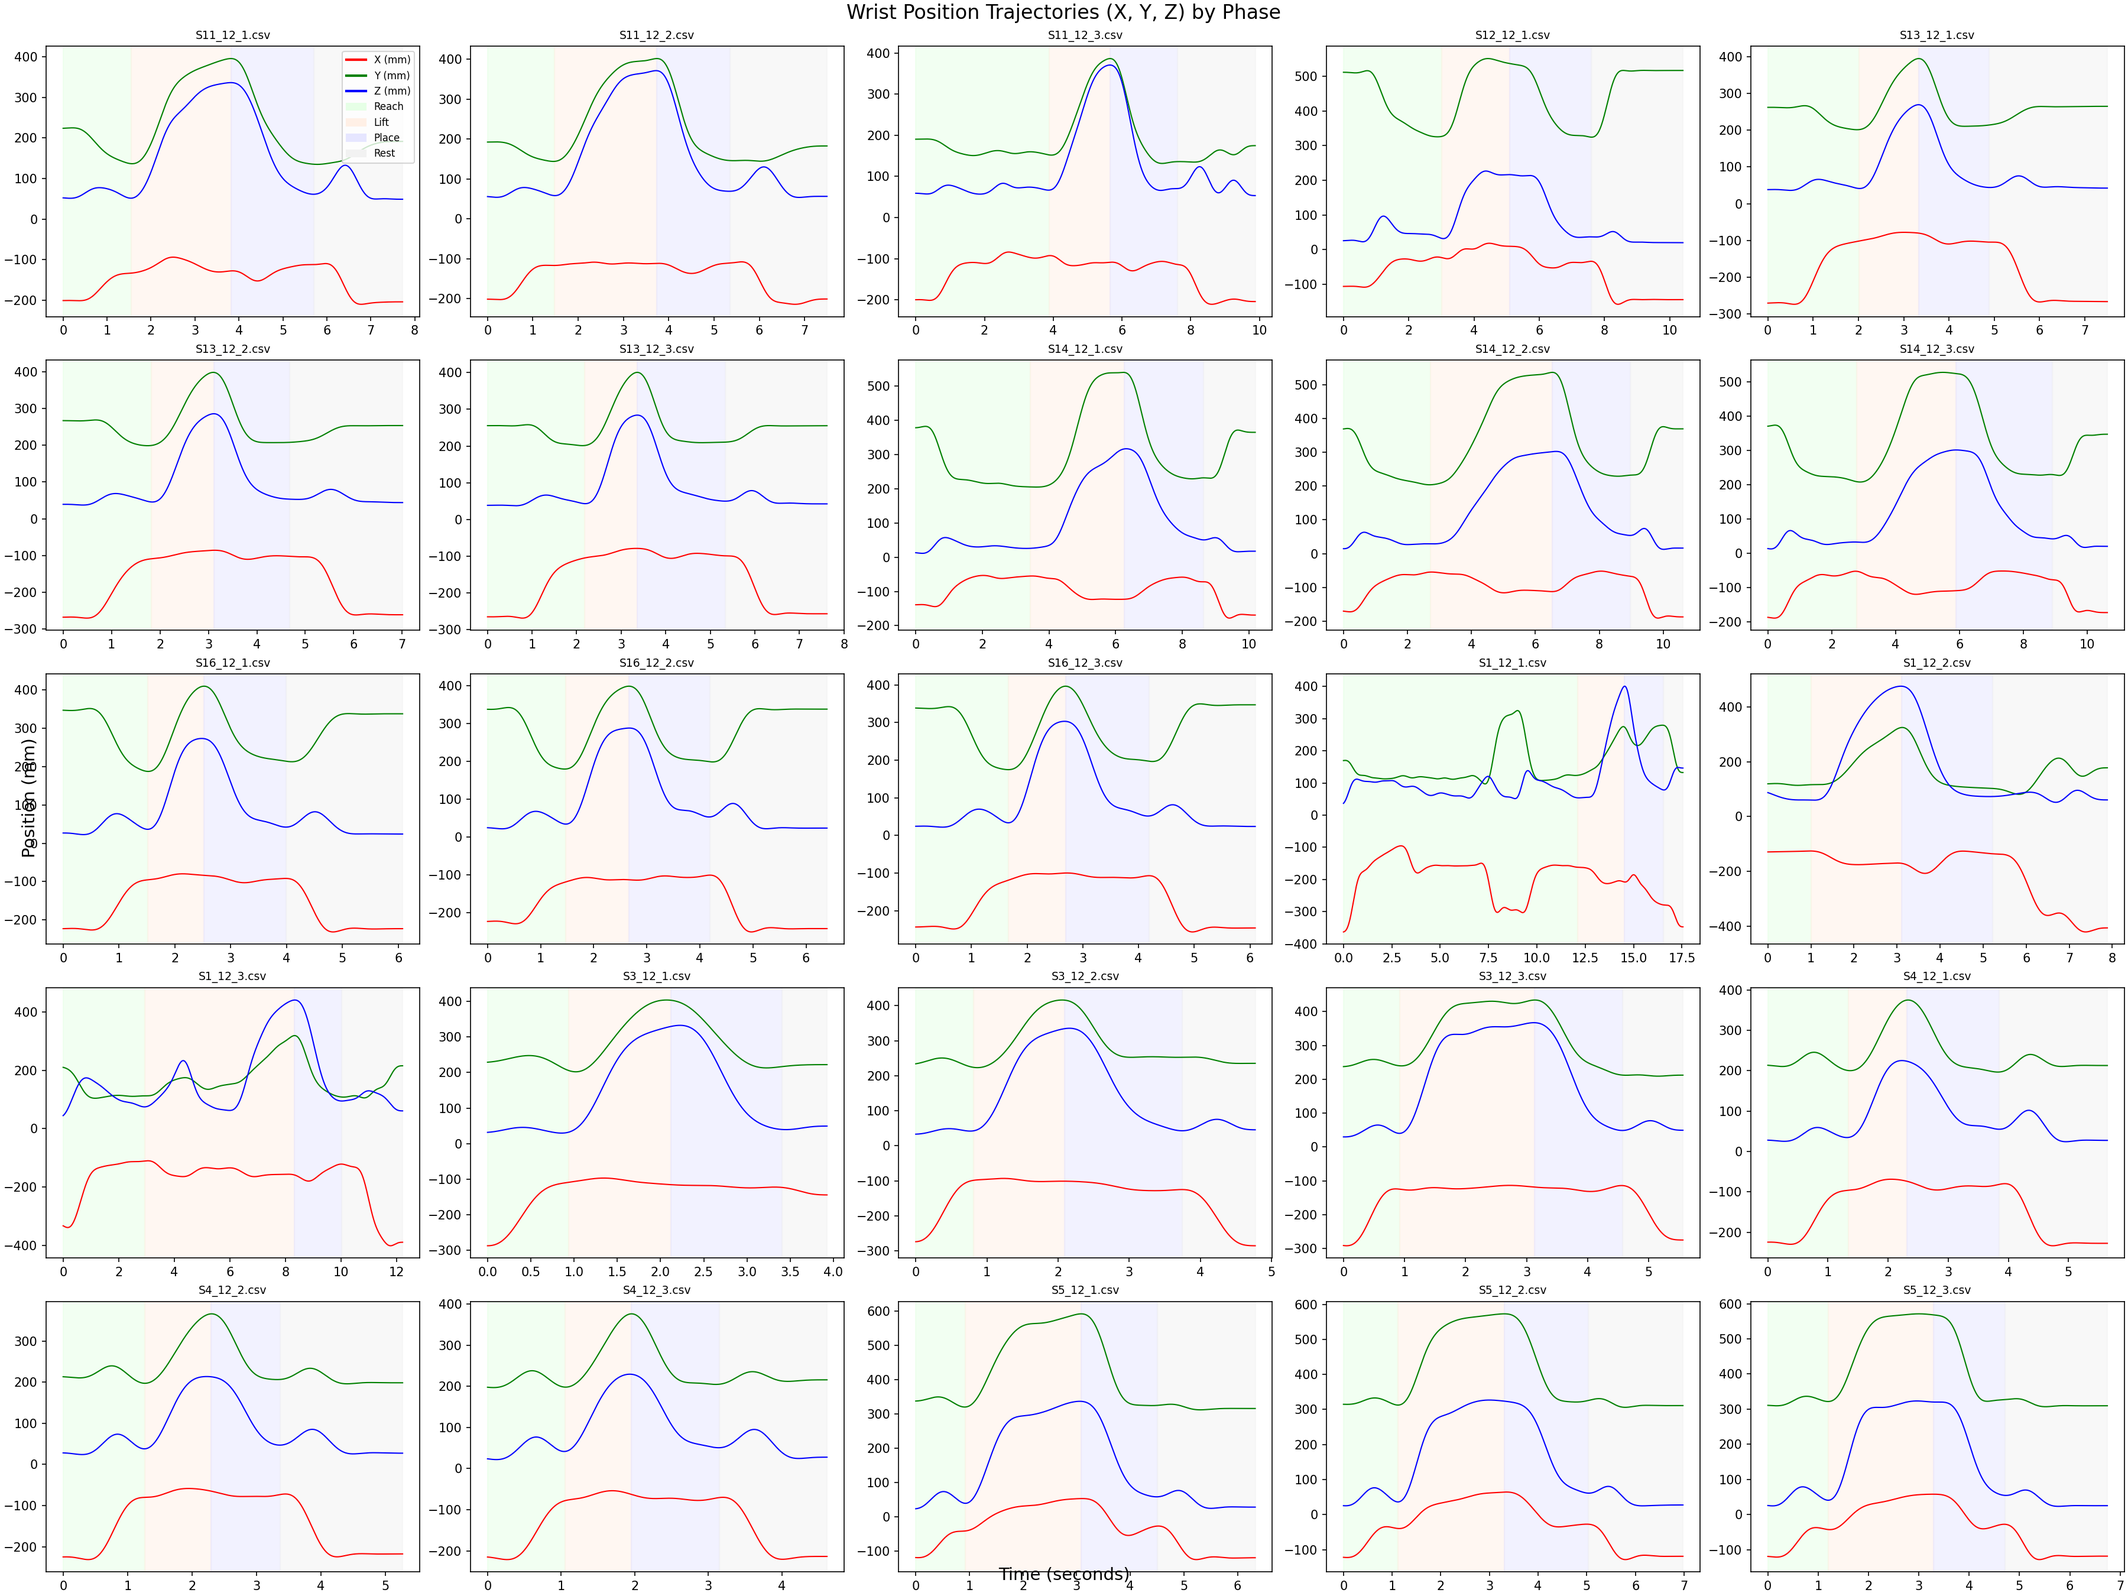
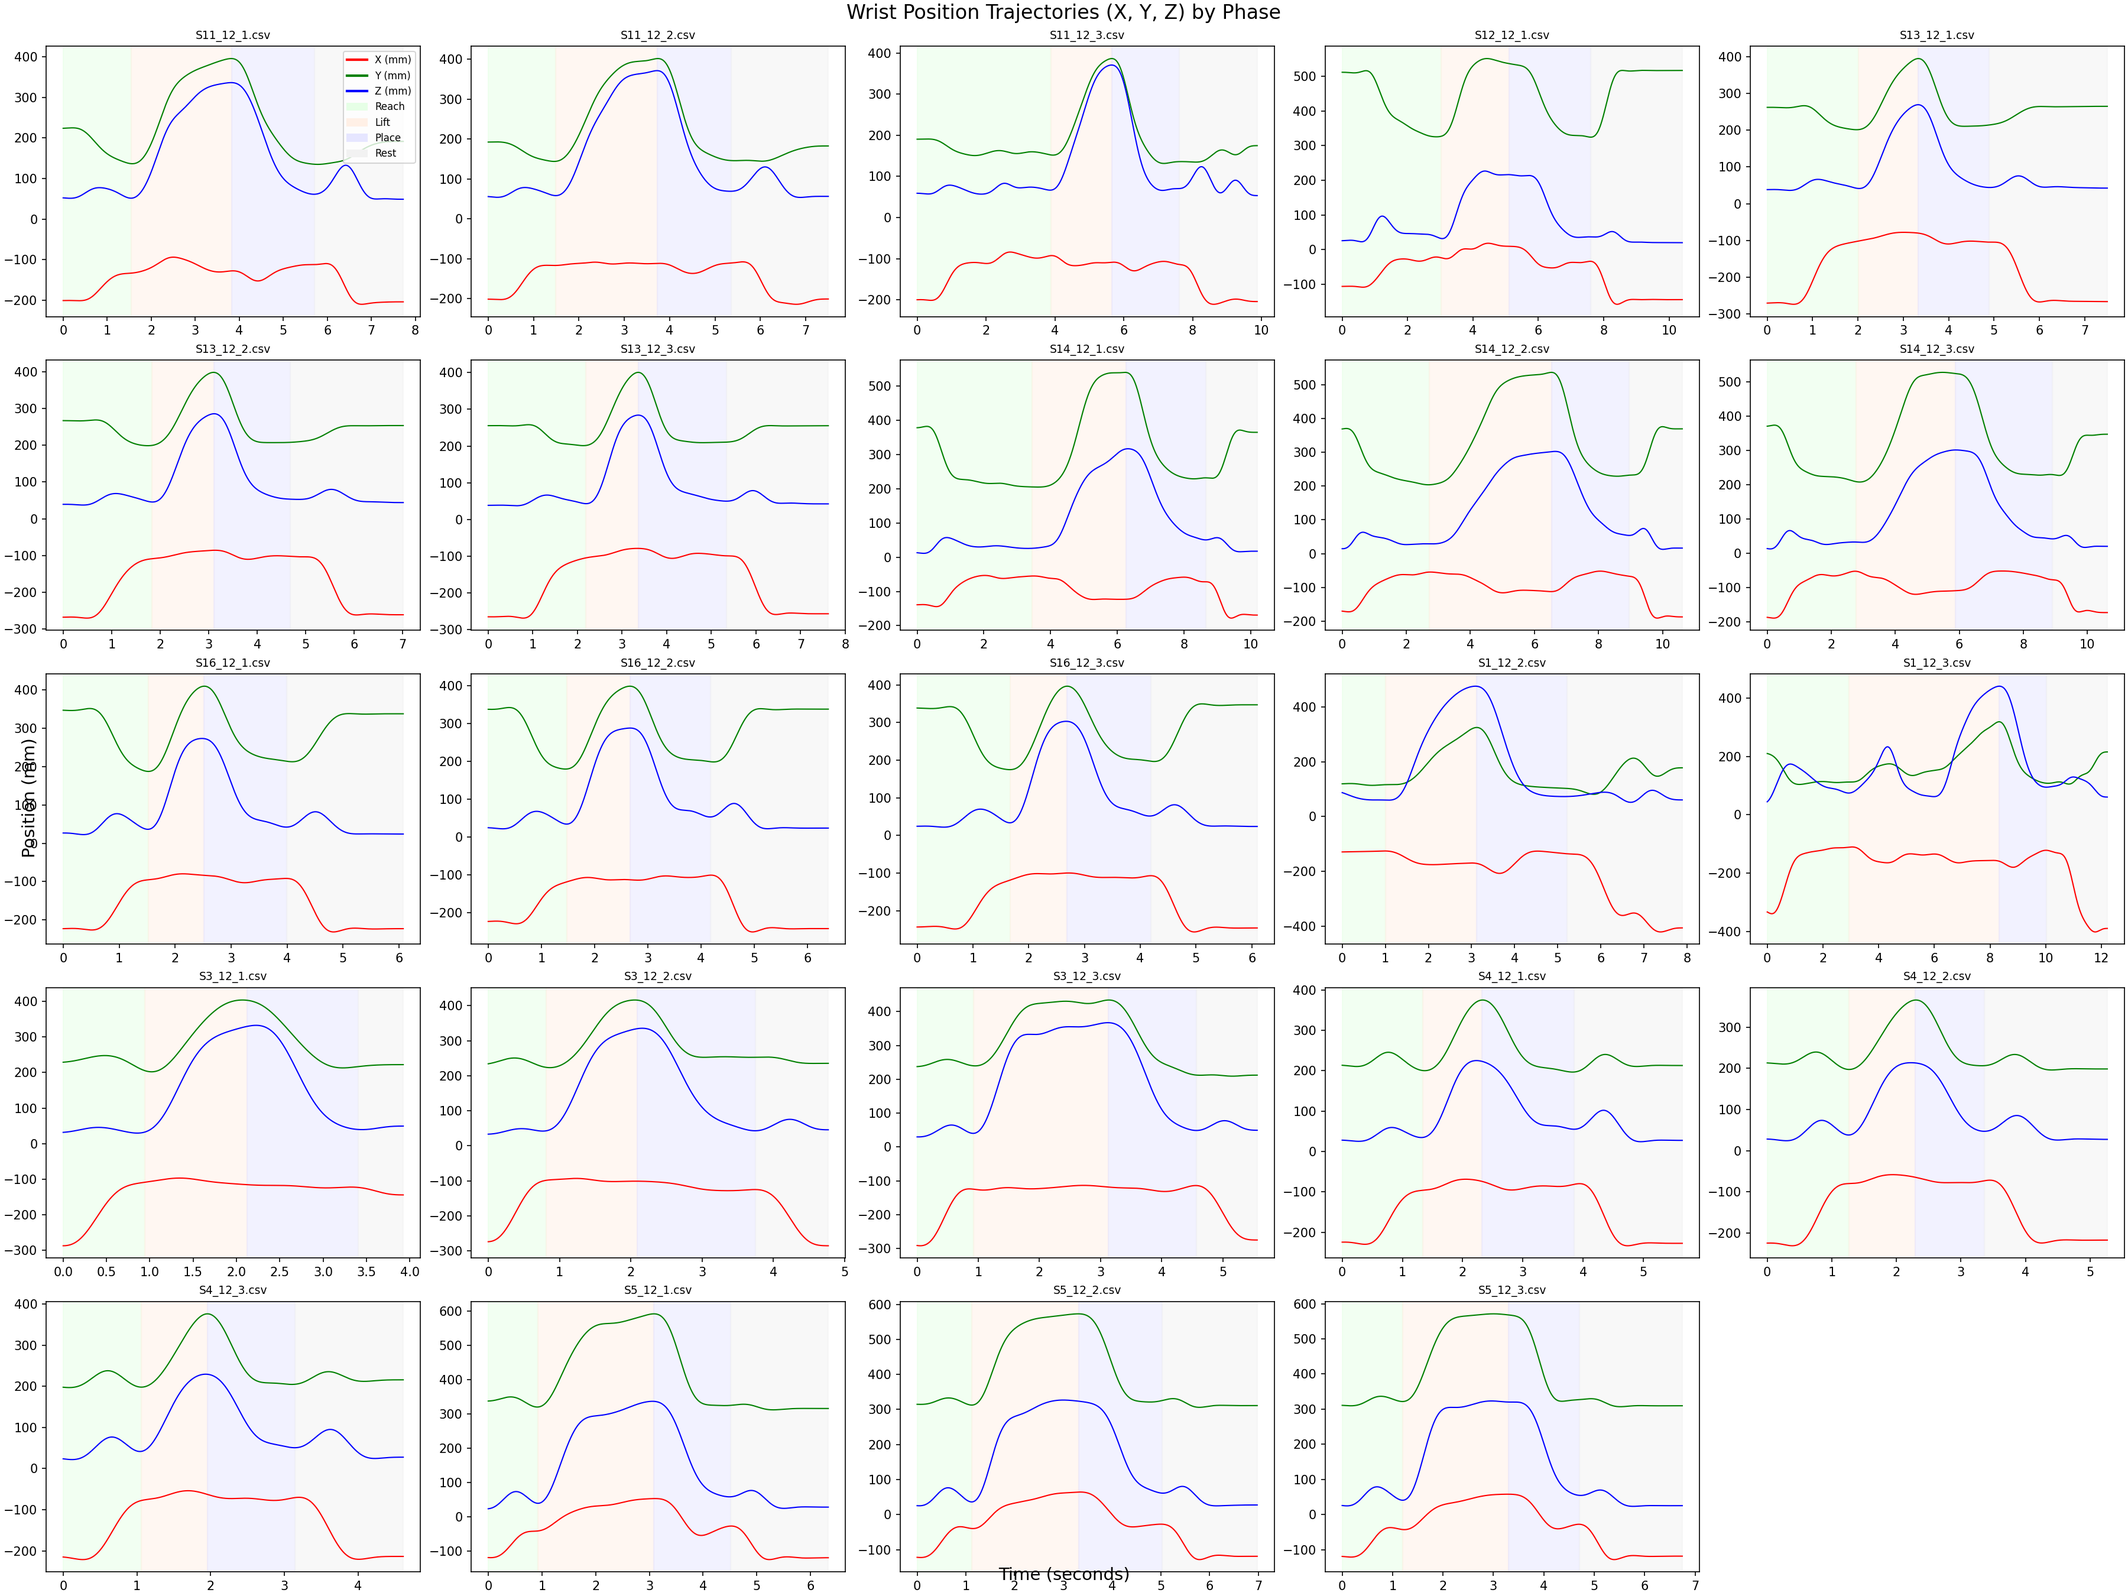
removed outlier (S1_12_1)

diff --git a/custom_workspace/IK/visual/advanced_kinematic_features.py b/custom_workspace/IK/visual/advanced_kinematic_features.py
@@ -1,0 +1,340 @@
+import pandas as pd
+import numpy as np
+import matplotlib.pyplot as plt
+import os
+import glob
+import json
+import math
+from scipy.signal import butter, filtfilt
+
+# --- 1. Data Loading & Processing (Reused logic) ---
+
+def load_and_process_data(filepath):
+    try:
+        header_df = pd.read_csv(filepath, header=None, nrows=2, sep=',')
+        marker_names = header_df.iloc[0].str.strip().ffill()
+        axis_names = header_df.iloc[1].str.strip()
+        multi_index = pd.MultiIndex.from_arrays([marker_names, axis_names])
+        data = pd.read_csv(filepath, header=None, skiprows=2, names=multi_index, sep=',')
+        data = data.apply(pd.to_numeric, errors='coerce')
+        data = data.interpolate(method='linear', limit_direction='both').fillna(0)
+        return data
+    except Exception as e:
+        print(f"Error reading {filepath}: {e}")
+        return None
+
+def calculate_virtual_joints(df):
+    processed_df = df.copy()
+    try:
+        # Wrist (Midpoint)
+        processed_df[('V_Wrist', 'X')] = (processed_df['WRA']['X'] + processed_df['WRB']['X']) / 2
+        processed_df[('V_Wrist', 'Y')] = (processed_df['WRA']['Y'] + processed_df['WRB']['Y']) / 2
+        processed_df[('V_Wrist', 'Z')] = (processed_df['WRA']['Z'] + processed_df['WRB']['Z']) / 2
+        # Elbow (Midpoint)
+        processed_df[('V_Elbow', 'X')] = (processed_df['ELB_L']['X'] + processed_df['ELB_M']['X']) / 2
+        processed_df[('V_Elbow', 'Y')] = (processed_df['ELB_L']['Y'] + processed_df['ELB_M']['Y']) / 2
+        processed_df[('V_Elbow', 'Z')] = (processed_df['ELB_L']['Z'] + processed_df['ELB_M']['Z']) / 2
+        # Shoulder (Centroid)
+        processed_df[('V_Shoulder', 'X')] = (processed_df['SA_1']['X'] + processed_df['SA_2']['X'] + processed_df['SA_3']['X']) / 3
+        processed_df[('V_Shoulder', 'Y')] = (processed_df['SA_1']['Y'] + processed_df['SA_2']['Y'] + processed_df['SA_3']['Y']) / 3
+        processed_df[('V_Shoulder', 'Z')] = (processed_df['SA_1']['Z'] + processed_df['SA_2']['Z'] + processed_df['SA_3']['Z']) / 3
+        return processed_df
+    except KeyError:
+        return None
+
+# --- 2. Advanced Kinematic Calculations ---
+
+def calculate_angles(joints_df):
+    """
+    Calculates Elbow Flexion and Shoulder Elevation angles.
+    """
+    s = joints_df['V_Shoulder'].values
+    e = joints_df['V_Elbow'].values
+    w = joints_df['V_Wrist'].values
+    
+    # Vectors
+    # Upper Arm: Shoulder -> Elbow
+    v_upper = e - s
+    # Forearm: Elbow -> Wrist
+    v_fore = w - e
+    # Vertical Vector (assuming Z is Up based on standard Mocap, or we use Y? 
+    # play_kinematics uses Z as vertical in plotting)
+    v_vert = np.array([0, 0, 1])
+    
+    angles = {}
+    
+    # 1. Elbow Flexion (Angle between Upper Arm and Forearm)
+    # Cos(theta) = dot(u, v) / (|u| |v|)
+    # Note: 180 degrees = Full Extension (straight arm)
+    norms_upper = np.linalg.norm(v_upper, axis=1)
+    norms_fore = np.linalg.norm(v_fore, axis=1)
+    
+    dot_prod = np.sum(v_upper * v_fore, axis=1)
+    cosine_angle = dot_prod / (norms_upper * norms_fore)
+    cosine_angle = np.clip(cosine_angle, -1.0, 1.0)
+    # Angle in degrees
+    # If they point in same direction (straight arm), angle is 0 in vector math?
+    # No, S->E and E->W. If straight, they are collinear. Angle is 0. 
+    # Usually flexion is measured from 0 (straight) or 180 (straight).
+    # Let's use the vector angle: 0 means vectors are aligned (Straight arm).
+    elbow_angle = np.degrees(np.arccos(cosine_angle))
+    # Anatomically, 0 is often fully flexed and 180 extended, or vice versa.
+    # Here, 0 deg = Straight arm (Hyperextension boundary). 90 = Bent.
+    angles['Elbow_Flexion'] = elbow_angle
+
+    # 2. Shoulder Elevation (Angle between Upper Arm and Vertical)
+    # Using Upper Arm vector (S->E) and Vertical (0,0,1)
+    # Note: Usually S->E points DOWN. So angle with (0,0,1) would be ~180.
+    # Let's use vector E->S (pointing up to shoulder) vs Vertical? 
+    # Or just S->E against Vertical (Down is 180, Up is 0).
+    # Abduction implies lifting arm AWAY from torso. 
+    # Let's use angle between S->E and Vertical. 
+    # 180 = Arm down side. 90 = Arm horizontal. 0 = Arm straight up.
+    dot_prod_s = np.sum(v_upper * v_vert, axis=1)
+    cos_s = dot_prod_s / norms_upper # |v_vert| is 1
+    cos_s = np.clip(cos_s, -1.0, 1.0)
+    shoulder_elev = np.degrees(np.arccos(cos_s))
+    # Convert to "Elevation": 0 = Down, 90 = Horizontal, 180 = Up
+    # Current: 180=Down (vector points -Z vs +Z). 
+    # Let's flip it: Elevation = 180 - angle
+    angles['Shoulder_Elevation'] = 180 - shoulder_elev
+    
+    return pd.DataFrame(angles)
+
+def calculate_derivatives(pos, fs):
+    """Calc Vel, Acc, Jerk magnitude"""
+    vel = np.diff(pos, axis=0) * fs
+    acc = np.diff(vel, axis=0) * fs
+    jerk = np.diff(acc, axis=0) * fs
+    
+    # Pad to match length
+    vel = np.vstack([np.zeros((1,3)), vel])
+    acc = np.vstack([np.zeros((2,3)), acc])
+    jerk = np.vstack([np.zeros((3,3)), jerk])
+    
+    return vel, acc, jerk
+
+def calculate_smoothness(jerk, duration, v_peak):
+    """
+    Log Dimensionless Jerk
+    LDLJ = -ln( (integral(jerk^2) * duration^3) / v_peak^2 ) 
+    (Formula variation exists, using a standard one for point-to-point)
+    """
+    if duration <= 0 or v_peak <= 0: return 0
+    
+    jerk_sq = np.sum(jerk**2, axis=1) # Magnitude squared
+    integral_jerk = np.sum(jerk_sq) * (1/200.0) # dt
+    
+    # Dimensionless Jerk
+    dj = (integral_jerk * (duration**3)) / (v_peak**2)
+    
+    if dj <= 0: return 0
+    return -np.log(dj)
+
+def calculate_straightness(pos):
+    """Index of Curvature: Path Length / Straight Line Dist"""
+    if len(pos) < 2: return 1.0
+    
+    path_len = np.sum(np.linalg.norm(np.diff(pos, axis=0), axis=1))
+    straight_dist = np.linalg.norm(pos[-1] - pos[0])
+    
+    if straight_dist == 0: return 1.0
+    return path_len / straight_dist
+
+# --- 3. Main Analysis Function ---
+
+def main():
+    script_dir = os.path.dirname(os.path.abspath(__file__))
+    project_root = os.path.abspath(os.path.join(script_dir, "../../"))
+    
+    filtered_dir = os.path.join(project_root, "data", "kinematic", "Stroke", "filtered")
+    json_path = os.path.join(script_dir, "manual_phase_indices.json")
+    
+    if not os.path.exists(json_path):
+        print(f"Error: {json_path} not found.")
+        return
+        
+    with open(json_path, 'r') as f:
+        phase_data = json.load(f)
+        
+    csv_files = sorted(glob.glob(os.path.join(filtered_dir, "*.csv")))[:25]
+    fs = 200.0
+    
+    # Storage for aggregated features
+    features = []
+    
+    # Storage for Cyclograms (Angle-Angle)
+    cyclograms = [] # list of (shoulder_angle_array, elbow_angle_array, filename)
+    
+    print("Processing 25 files for advanced features...")
+    
+    for filepath in csv_files:
+        filename = os.path.basename(filepath)
+        idxs = phase_data.get(filename, [])
+        if len(idxs) != 3: continue
+        
+        df = load_and_process_data(filepath)
+        if df is None: continue
+        joints = calculate_virtual_joints(df)
+        if joints is None: continue
+        
+        # 1. Calc Angles & Kinematics
+        angles = calculate_angles(joints)
+        w_pos = joints['V_Wrist'].values
+        vel, acc, jerk = calculate_derivatives(w_pos, fs)
+        vel_mag = np.linalg.norm(vel, axis=1)
+        
+        # 2. Extract Phase Indices
+        # Reach: 0 -> idxs[0]
+        # Lift: idxs[0] -> idxs[1]
+        # Place: idxs[1] -> idxs[2]
+        # Rest: idxs[2] -> end
+        
+        # --- Feature 1: Joint Angle Features (Reach Phase) ---
+        r_start, r_end = 0, idxs[0]
+        reach_angles = angles.iloc[r_start:r_end]
+        
+        # Elbow Extension ROM (Max - Min during reach)
+        elbow_rom = reach_angles['Elbow_Flexion'].max() - reach_angles['Elbow_Flexion'].min()
+        
+        # Trunk Compensation (Shoulder Displacement)
+        s_pos = joints['V_Shoulder'].values
+        s_disp = np.linalg.norm(s_pos - s_pos[0], axis=1)
+        max_trunk_comp = np.max(s_disp)
+        
+        # --- Feature 2: Coordination (Whole movement or Reach/Lift) ---
+        # Storing for plot
+        cyclograms.append((angles['Shoulder_Elevation'].values, angles['Elbow_Flexion'].values, filename))
+        
+        # --- Feature 3: Efficiency (Reach Phase) ---
+        # Hand/Joint Ratio: Dist Wrist / Sum(Abs(Delta Angles))
+        reach_w_pos = w_pos[r_start:r_end]
+        wrist_dist = np.sum(np.linalg.norm(np.diff(reach_w_pos, axis=0), axis=1))
+        
+        d_shoulder = np.sum(np.abs(np.diff(reach_angles['Shoulder_Elevation'])))
+        d_elbow = np.sum(np.abs(np.diff(reach_angles['Elbow_Flexion'])))
+        joint_travel = d_shoulder + d_elbow
+        
+        efficiency = wrist_dist / joint_travel if joint_travel > 0 else 0
+        
+        # Straightness
+        straightness = calculate_straightness(reach_w_pos)
+        
+        # --- Feature 4: Phase Specifics ---
+        
+        # Reach: Time to Peak Velocity (%)
+        if len(vel_mag[r_start:r_end]) > 0:
+            peak_idx = np.argmax(vel_mag[r_start:r_end])
+            time_to_peak = peak_idx / len(vel_mag[r_start:r_end]) # Normalized 0-1
+        else:
+            time_to_peak = 0
+            
+        # Lift: Smoothness (Log Dimensionless Jerk)
+        l_start, l_end = idxs[0], idxs[1]
+        lift_dur = (l_end - l_start) / fs
+        lift_vpeak = np.max(vel_mag[l_start:l_end]) if l_end > l_start else 0
+        lift_jerk = jerk[l_start:l_end]
+        smoothness = calculate_smoothness(lift_jerk, lift_dur, lift_vpeak)
+        
+        # Lift: Max Shoulder Abduction (Elevation)
+        lift_angles = angles.iloc[l_start:l_end]
+        max_sh_elev = lift_angles['Shoulder_Elevation'].max() if len(lift_angles) > 0 else 0
+        
+        # Place: Target Accuracy (Final Position Variance - handled at group level, 
+        # but here we'll store final pos to calc variance later)
+        p_start, p_end = idxs[1], idxs[2]
+        final_pos = w_pos[p_end] if p_end < len(w_pos) else w_pos[-1]
+        
+        # Rest: Static Tremor
+        rest_start = idxs[2]
+        if rest_start < len(w_pos):
+            rest_pos = w_pos[rest_start:]
+            # Std dev of position (euclidean from mean)
+            mean_rest = np.mean(rest_pos, axis=0)
+            tremor = np.mean(np.linalg.norm(rest_pos - mean_rest, axis=1))
+        else:
+            tremor = 0
+            
+        features.append({
+            'Filename': filename,
+            'Elbow_ROM_Reach': elbow_rom,
+            'Trunk_Compensation': max_trunk_comp,
+            'Efficiency_Ratio': efficiency,
+            'Straightness_Index': straightness,
+            'Time_to_Peak_Vel': time_to_peak,
+            'Lift_Smoothness_LDLJ': smoothness,
+            'Max_Shoulder_Elev_Lift': max_sh_elev,
+            'Rest_Tremor': tremor,
+            'Final_X': final_pos[0], 'Final_Y': final_pos[1], 'Final_Z': final_pos[2]
+        })
+
+    df_feats = pd.DataFrame(features)
+    
+    # Calc Place Accuracy (Group Variance)
+    # Distance of each final pos from group mean final pos
+    mean_target = df_feats[['Final_X', 'Final_Y', 'Final_Z']].mean().values
+    df_feats['Place_Accuracy_Error'] = df_feats.apply(
+        lambda r: np.linalg.norm(np.array([r['Final_X'], r['Final_Y'], r['Final_Z']]) - mean_target), axis=1
+    )
+    
+    # --- Generation of Plots ---
+    
+    # 1. Angle-Angle Plots (Coordination)
+    print("Generating Coordination Cyclograms...")
+    fig, ax = plt.subplots(figsize=(10, 8))
+    for s_ang, e_ang, fname in cyclograms:
+        ax.plot(s_ang, e_ang, alpha=0.3, linewidth=1, label=fname)
+    # Mean trace
+    # (Resampling needed for true mean, skipping for visual clarity of 'bundle')
+    ax.set_xlabel("Shoulder Elevation (deg)")
+    ax.set_ylabel("Elbow Flexion (deg)")
+    ax.set_title("Inter-Joint Coordination: Shoulder vs Elbow\n(Smooth loops = Good coordination)")
+    ax.grid(True, alpha=0.3)
+    plt.savefig(os.path.join(script_dir, "advanced_1_coordination_cyclograms.png"), dpi=150)
+    
+    # 2. Feature Distributions (Boxplots)
+    print("Generating Feature Boxplots...")
+    metrics_to_plot = [
+        'Elbow_ROM_Reach', 'Trunk_Compensation', 'Straightness_Index', 
+        'Lift_Smoothness_LDLJ', 'Rest_Tremor', 'Place_Accuracy_Error'
+    ]
+    titles = [
+        'Reach: Elbow ROM (deg)', 'Trunk Comp (mm)', 'Reach Straightness (>1=Curved)',
+        'Lift Smoothness (LDLJ)', 'Rest Tremor (mm)', 'Place Error (mm)'
+    ]
+    
+    fig, axes = plt.subplots(2, 3, figsize=(18, 10))
+    axes = axes.flatten()
+    
+    for i, metric in enumerate(metrics_to_plot):
+        ax = axes[i]
+        vals = df_feats[metric].values
+        ax.boxplot(vals, patch_artist=True, boxprops=dict(facecolor='lightblue'))
+        ax.set_title(titles[i], fontweight='bold')
+        ax.grid(True, axis='y', linestyle='--')
+        # Add jitter points
+        x = np.random.normal(1, 0.04, size=len(vals))
+        ax.plot(x, vals, 'r.', alpha=0.5)
+        
+    plt.suptitle("Advanced Kinematic Features Distribution", fontsize=16)
+    plt.tight_layout()
+    plt.savefig(os.path.join(script_dir, "advanced_2_feature_distributions.png"), dpi=150)
+    
+    # 3. Efficiency Scatter (Straightness vs Efficiency)
+    print("Generating Efficiency Scatter...")
+    plt.figure(figsize=(10, 6))
+    plt.scatter(df_feats['Straightness_Index'], df_feats['Efficiency_Ratio'], c=df_feats['Trunk_Compensation'], cmap='viridis', s=100, alpha=0.8)
+    plt.colorbar(label='Trunk Compensation (mm)')
+    plt.xlabel("Reach Straightness (1.0 = Perfect Line)")
+    plt.ylabel("Hand/Joint Efficiency Ratio")
+    plt.title("Efficiency Analysis: Do straighter reaches require less joint work?")
+    plt.grid(True, alpha=0.3)
+    plt.savefig(os.path.join(script_dir, "advanced_3_efficiency_scatter.png"), dpi=150)
+    
+    print("\nAdvanced Analysis Complete.")
+    print("1. advanced_1_coordination_cyclograms.png")
+    print("2. advanced_2_feature_distributions.png")
+    print("3. advanced_3_efficiency_scatter.png")
+
+if __name__ == "__main__":
+    main()
